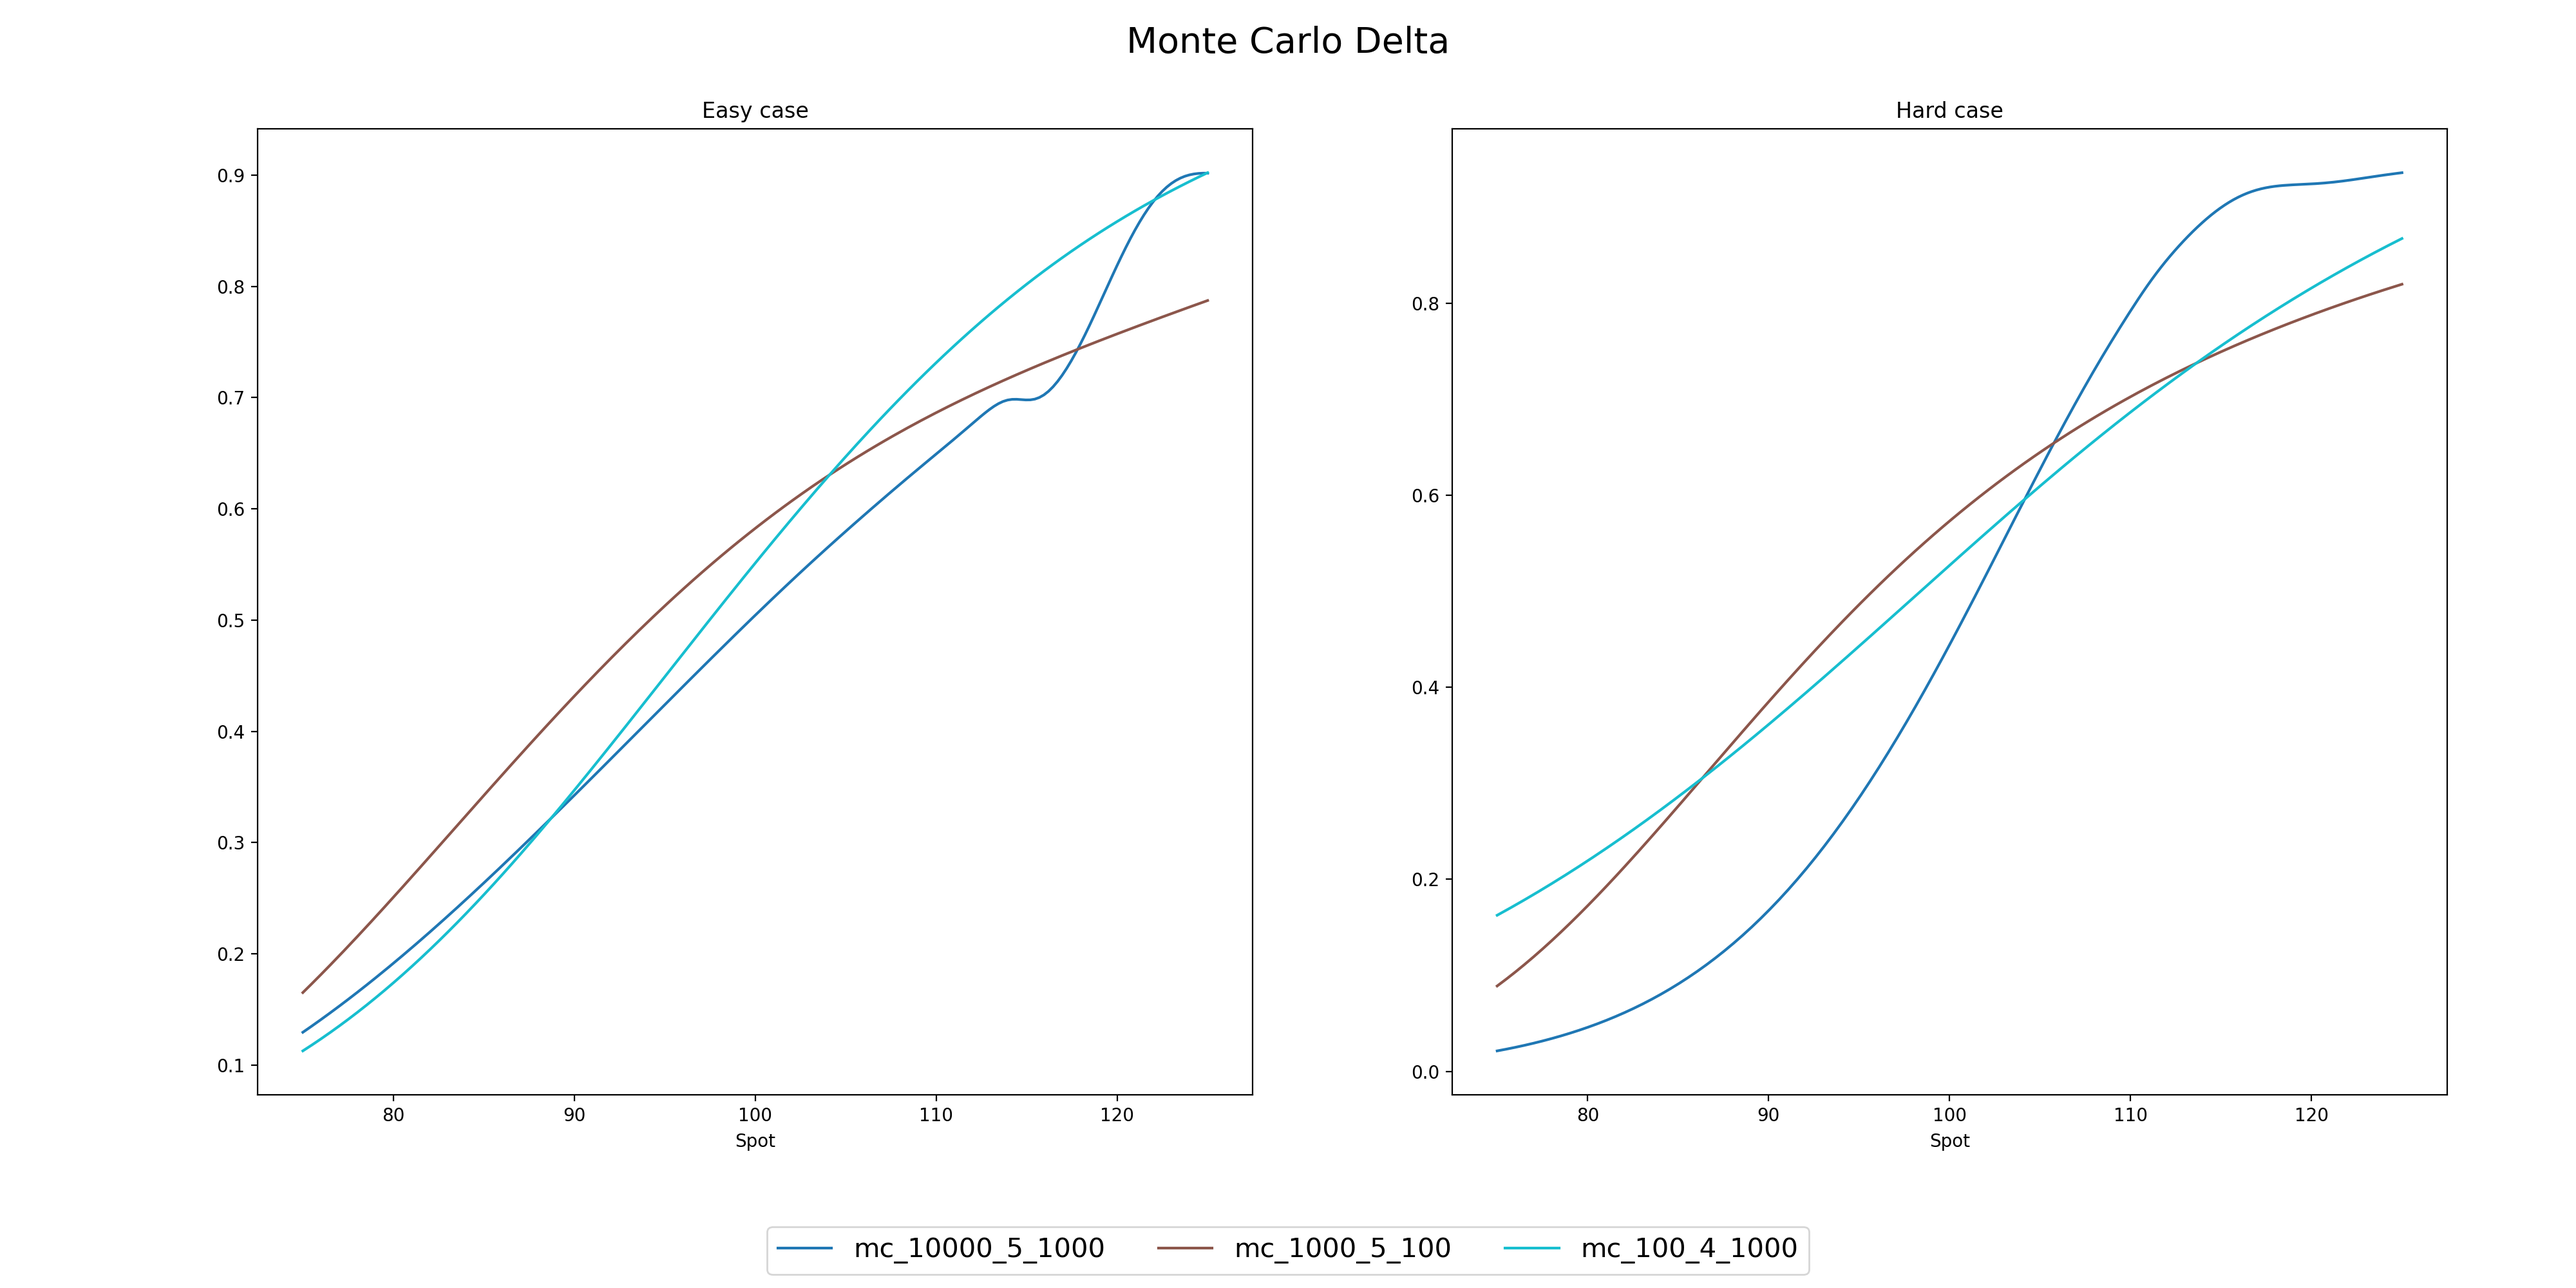
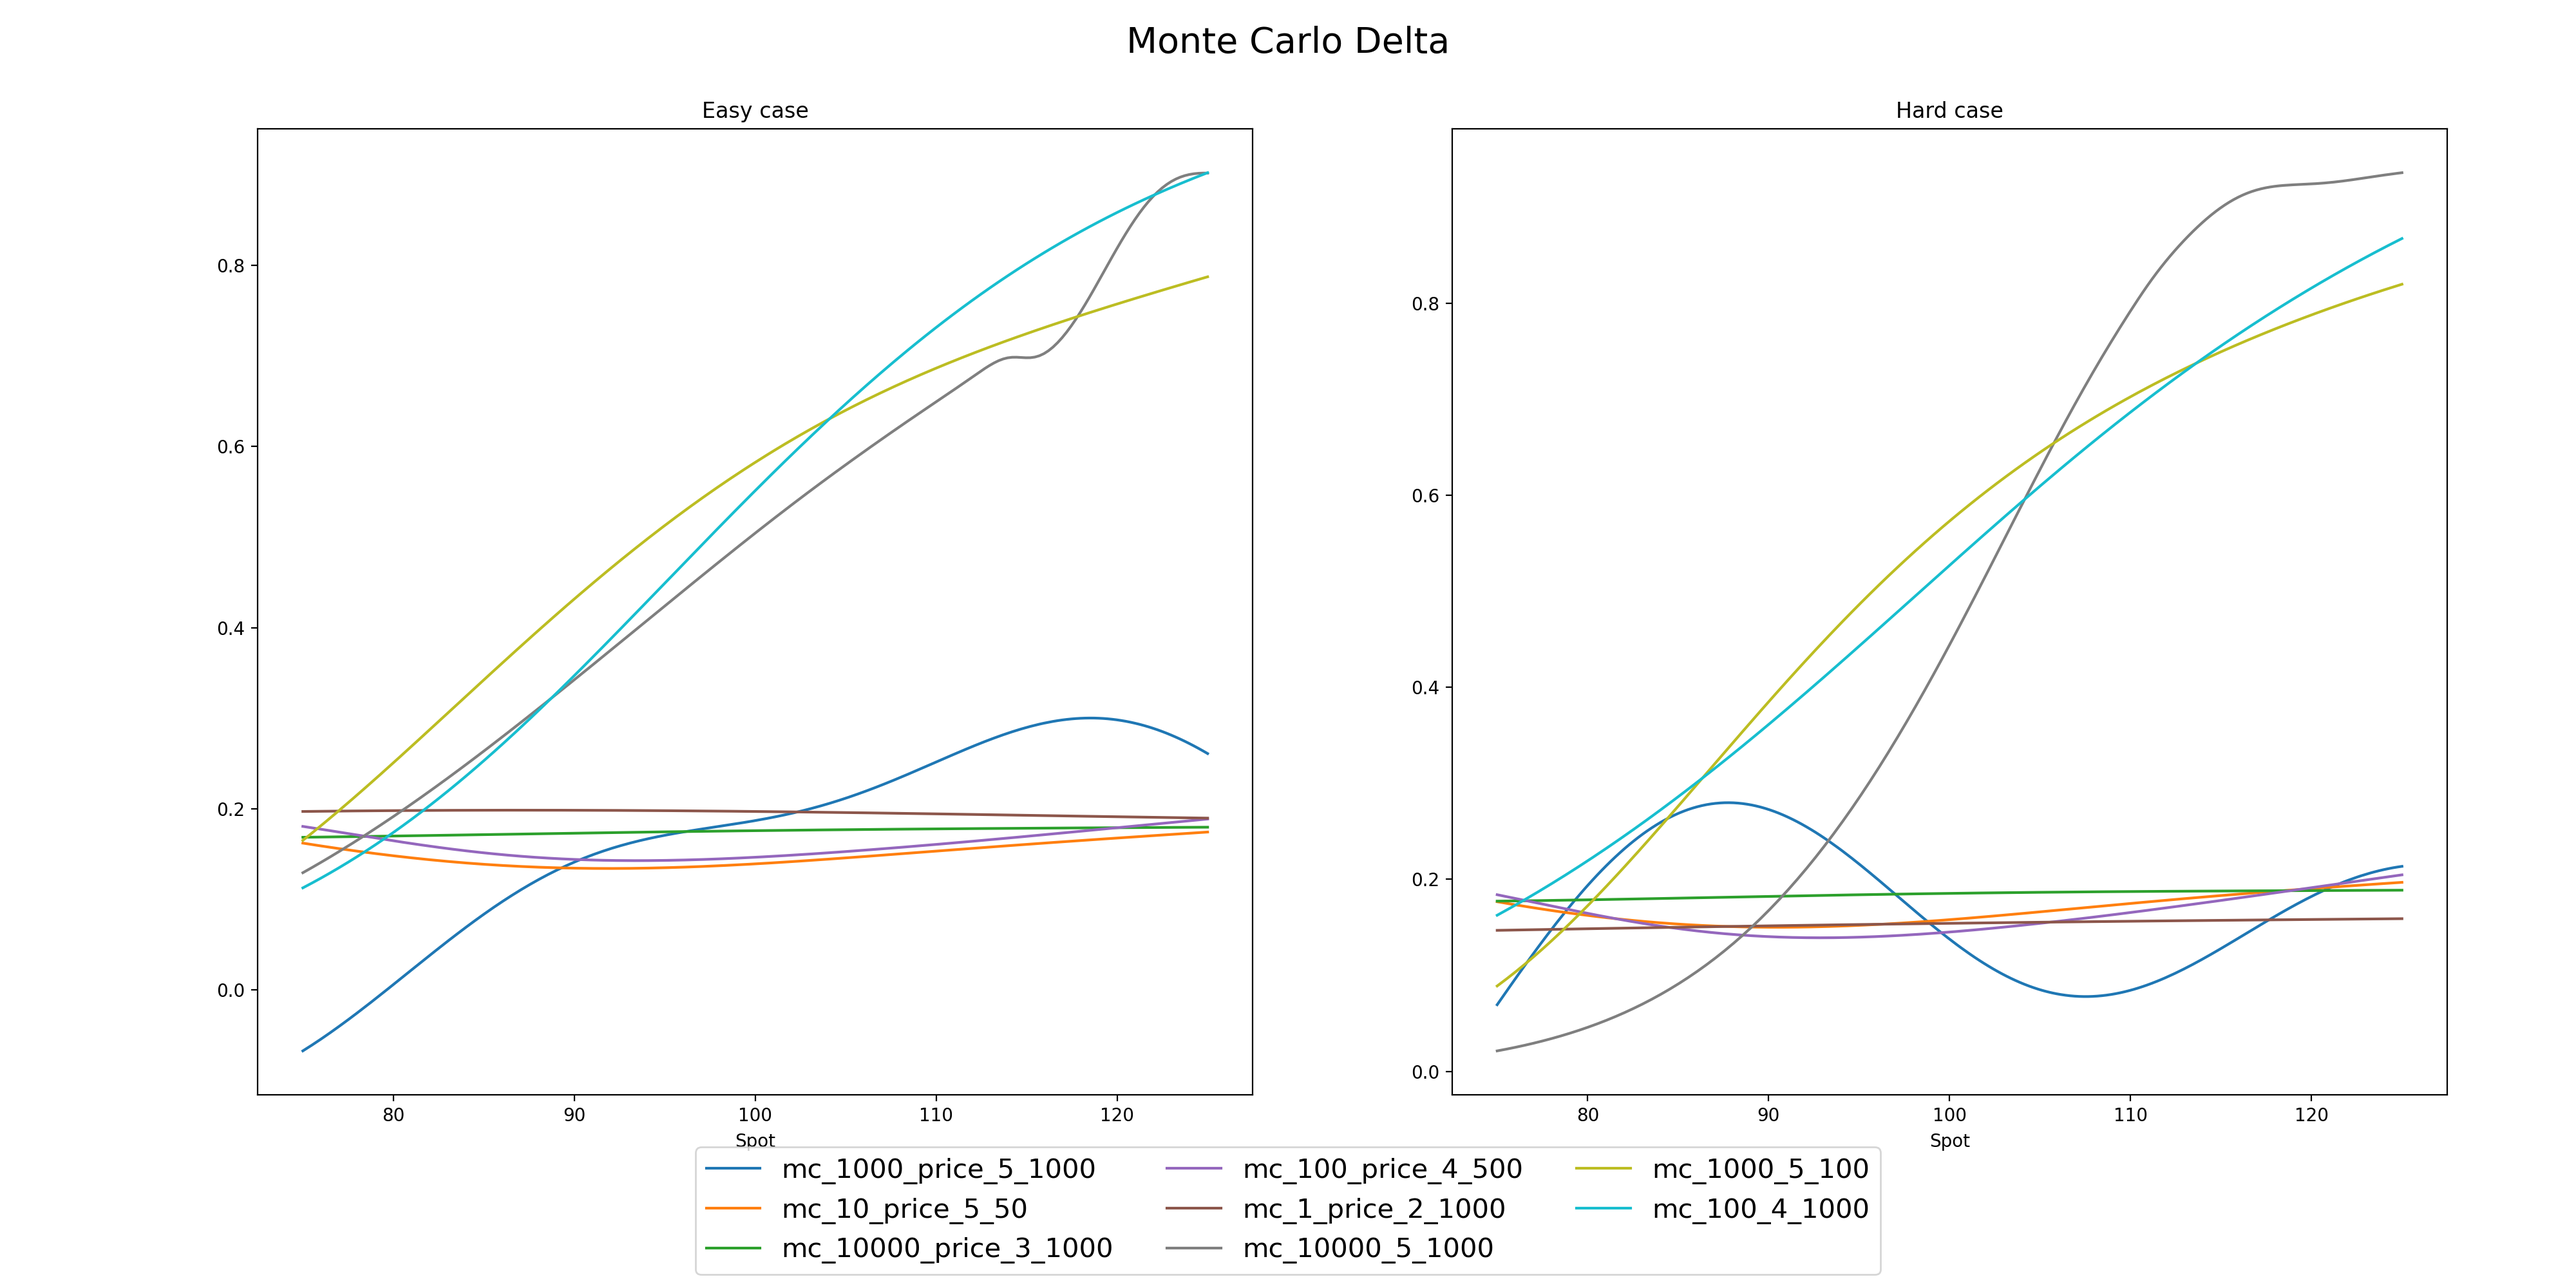
mc price

diff --git a/Thesis/Heston/MC_al.py b/Thesis/Heston/MC_al.py
@@ -702,33 +702,33 @@ if __name__ == "__main__":
     mc_100_4_1000_dict = model_grads(mc_100_4_1000, input_good_easy, input_good_hard, some_option)
 
     mc_prediction_data = {
-        #"mc_1000_price_5_1000" : [mc_1000_price_5_1000_dict["pred"][0], mc_1000_price_5_1000_dict["pred"][1]],
-        #"mc_10_price_5_50" : [mc_10_price_5_50_dict["pred"][0], mc_10_price_5_50_dict["pred"][1]],
-        #"mc_10000_price_3_1000" : [mc_10000_price_3_1000_dict["pred"][0], mc_10000_price_3_1000_dict["pred"][1]],
-        #"mc_100_price_4_500" : [mc_100_price_4_500_dict["pred"][0], mc_100_price_4_500_dict["pred"][1]],
-        #"mc_1_price_2_1000" : [mc_1_price_2_1000_dict["pred"][0], mc_1_price_2_1000_dict["pred"][1]],
+        "mc_1000_price_5_1000" : [mc_1000_price_5_1000_dict["pred"][0], mc_1000_price_5_1000_dict["pred"][1]],
+        "mc_10_price_5_50" : [mc_10_price_5_50_dict["pred"][0], mc_10_price_5_50_dict["pred"][1]],
+        "mc_10000_price_3_1000" : [mc_10000_price_3_1000_dict["pred"][0], mc_10000_price_3_1000_dict["pred"][1]],
+        "mc_100_price_4_500" : [mc_100_price_4_500_dict["pred"][0], mc_100_price_4_500_dict["pred"][1]],
+        "mc_1_price_2_1000" : [mc_1_price_2_1000_dict["pred"][0], mc_1_price_2_1000_dict["pred"][1]],
         "mc_10000_5_1000" : [mc_10000_5_1000_dict["pred"][0], mc_10000_5_1000_dict["pred"][1]],
         "mc_1000_5_100" : [mc_1000_5_100_dict["pred"][0], mc_1000_5_100_dict["pred"][1]],
         "mc_100_4_1000" : [mc_100_4_1000_dict["pred"][0], mc_100_4_1000_dict["pred"][1]]
     }
 
     mc_delta_data= {
-        #"mc_1000_price_5_1000" : [mc_1000_price_5_1000_dict["delta"][0], mc_1000_price_5_1000_dict["delta"][1]],
-        #"mc_10_price_5_50" : [mc_10_price_5_50_dict["delta"][0], mc_10_price_5_50_dict["delta"][1]],
-        #"mc_10000_price_3_1000" : [mc_10000_price_3_1000_dict["delta"][0], mc_10000_price_3_1000_dict["delta"][1]],
-        #"mc_100_price_4_500" : [mc_100_price_4_500_dict["delta"][0], mc_100_price_4_500_dict["delta"][1]],
-        #"mc_1_price_2_1000" : [mc_1_price_2_1000_dict["delta"][0], mc_1_price_2_1000_dict["delta"][1]],
+        "mc_1000_price_5_1000" : [mc_1000_price_5_1000_dict["delta"][0], mc_1000_price_5_1000_dict["delta"][1]],
+        "mc_10_price_5_50" : [mc_10_price_5_50_dict["delta"][0], mc_10_price_5_50_dict["delta"][1]],
+        "mc_10000_price_3_1000" : [mc_10000_price_3_1000_dict["delta"][0], mc_10000_price_3_1000_dict["delta"][1]],
+        "mc_100_price_4_500" : [mc_100_price_4_500_dict["delta"][0], mc_100_price_4_500_dict["delta"][1]],
+        "mc_1_price_2_1000" : [mc_1_price_2_1000_dict["delta"][0], mc_1_price_2_1000_dict["delta"][1]],
         "mc_10000_5_1000" : [mc_10000_5_1000_dict["delta"][0], mc_10000_5_1000_dict["delta"][1]],
         "mc_1000_5_100" : [mc_1000_5_100_dict["delta"][0], mc_1000_5_100_dict["delta"][1]],
         "mc_100_4_1000" : [mc_100_4_1000_dict["delta"][0], mc_100_4_1000_dict["delta"][1]]
     }
 
     mc_gamma_data = {
-        #"mc_1000_price_5_1000" : [mc_1000_price_5_1000_dict["gamma"][0], mc_1000_price_5_1000_dict["gamma"][1]],
-        #"mc_10_price_5_50" : [mc_10_price_5_50_dict["gamma"][0], mc_10_price_5_50_dict["gamma"][1]],
-        #"mc_10000_price_3_1000" : [mc_10000_price_3_1000_dict["gamma"][0], mc_10000_price_3_1000_dict["gamma"][1]],
-        #"mc_100_price_4_500" : [mc_100_price_4_500_dict["gamma"][0], mc_100_price_4_500_dict["gamma"][1]],
-        #"mc_1_price_2_1000" : [mc_1_price_2_1000_dict["gamma"][0], mc_1_price_2_1000_dict["gamma"][1]],
+        "mc_1000_price_5_1000" : [mc_1000_price_5_1000_dict["gamma"][0], mc_1000_price_5_1000_dict["gamma"][1]],
+        "mc_10_price_5_50" : [mc_10_price_5_50_dict["gamma"][0], mc_10_price_5_50_dict["gamma"][1]],
+        "mc_10000_price_3_1000" : [mc_10000_price_3_1000_dict["gamma"][0], mc_10000_price_3_1000_dict["gamma"][1]],
+        "mc_100_price_4_500" : [mc_100_price_4_500_dict["gamma"][0], mc_100_price_4_500_dict["gamma"][1]],
+        "mc_1_price_2_1000" : [mc_1_price_2_1000_dict["gamma"][0], mc_1_price_2_1000_dict["gamma"][1]],
         "mc_10000_5_1000" : [mc_10000_5_1000_dict["gamma"][0], mc_10000_5_1000_dict["gamma"][1]],
         "mc_1000_5_100" : [mc_1000_5_100_dict["gamma"][0], mc_1000_5_100_dict["gamma"][1]],
         "mc_100_4_1000" : [mc_100_4_1000_dict["gamma"][0], mc_100_4_1000_dict["gamma"][1]]

diff --git a/Thesis/Heston/MonteCarlo.py b/Thesis/Heston/MonteCarlo.py
@@ -170,23 +170,23 @@ if __name__ == '__main__':
     ### Prices
     mc_1_price_set = list(zip(itertools.repeat(mc_1_price), itertools.repeat("mc_1_price"), \
         itertools.repeat("mc_1_price"), layer_neuron_combs[:, 0], layer_neuron_combs[:, 1], \
-        itertools.repeat("normal"), itertools.repeat("normalize"), itertools.repeat("standardize"), itertools.repeat(False)))
+        itertools.repeat("mix"), itertools.repeat("normalize"), itertools.repeat("standardize"), itertools.repeat(False)))
 
     mc_10_price_set = list(zip(itertools.repeat(mc_10_price), itertools.repeat("mc_10_price"), \
         itertools.repeat("mc_10_price"), layer_neuron_combs[:, 0], layer_neuron_combs[:, 1], \
-        itertools.repeat("normal"), itertools.repeat("normalize"), itertools.repeat("standardize"), itertools.repeat(False)))
+        itertools.repeat("mix"), itertools.repeat("normalize"), itertools.repeat("standardize"), itertools.repeat(False)))
 
     mc_100_price_set = list(zip(itertools.repeat(mc_100_price), itertools.repeat("mc_100_price"), \
         itertools.repeat("mc_100_price"), layer_neuron_combs[:, 0], layer_neuron_combs[:, 1], \
-        itertools.repeat("normal"), itertools.repeat("normalize"), itertools.repeat("standardize"), itertools.repeat(False)))
+        itertools.repeat("mix"), itertools.repeat("normalize"), itertools.repeat("standardize"), itertools.repeat(False)))
 
     mc_1000_price_set = list(zip(itertools.repeat(mc_1000_price), itertools.repeat("mc_1000_price"), \
         itertools.repeat("mc_1000_price"), layer_neuron_combs[:, 0], layer_neuron_combs[:, 1], \
-        itertools.repeat("normal"), itertools.repeat("normalize"), itertools.repeat("standardize"), itertools.repeat(False)))
+        itertools.repeat("mix"), itertools.repeat("normalize"), itertools.repeat("standardize"), itertools.repeat(False)))
 
     mc_10000_price_set = list(zip(itertools.repeat(mc_10000_price), itertools.repeat("mc_10000_price"), \
         itertools.repeat("mc_10000_price"), layer_neuron_combs[:, 0], layer_neuron_combs[:, 1], \
-        itertools.repeat("normal"), itertools.repeat("normalize"), itertools.repeat("standardize"), itertools.repeat(False)))
+        itertools.repeat("mix"), itertools.repeat("normalize"), itertools.repeat("standardize"), itertools.repeat(False)))
 
     price_list = mc_1_price_set + mc_10_price_set + mc_100_price_set + mc_1000_price_set + mc_10000_price_set
 
